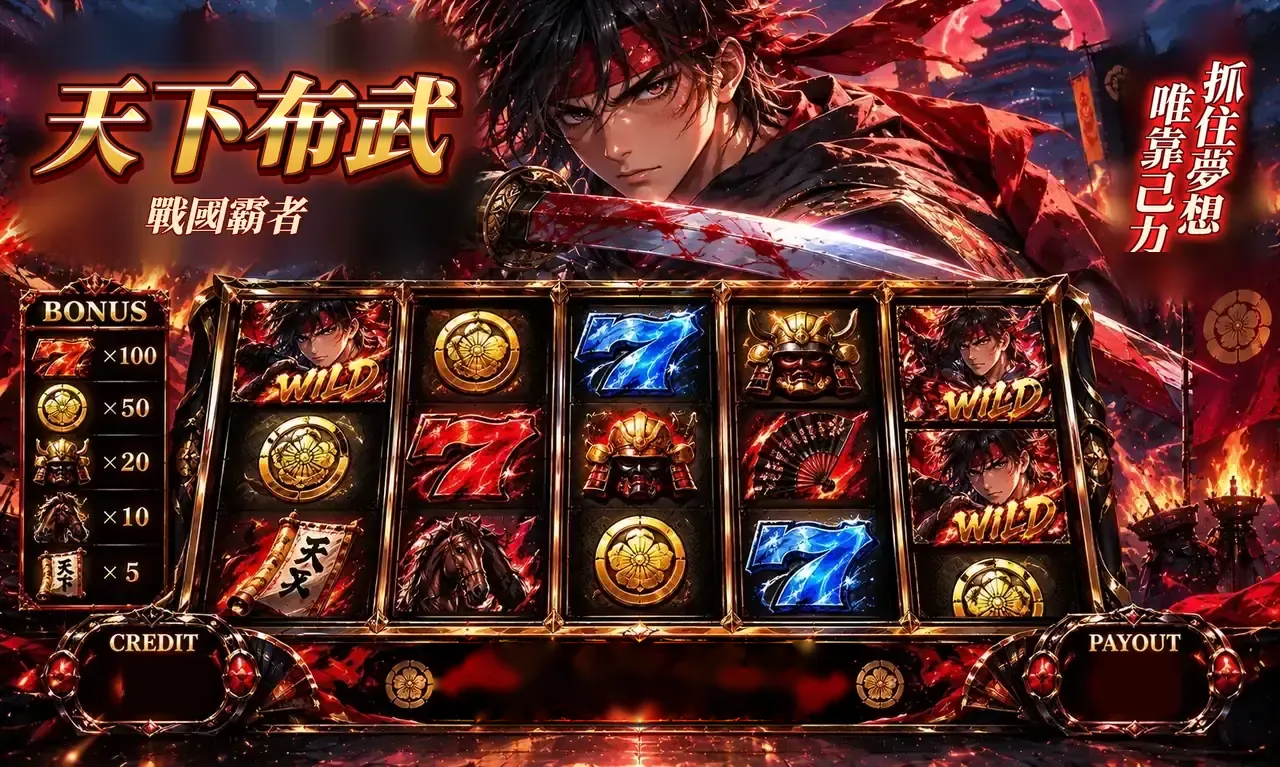
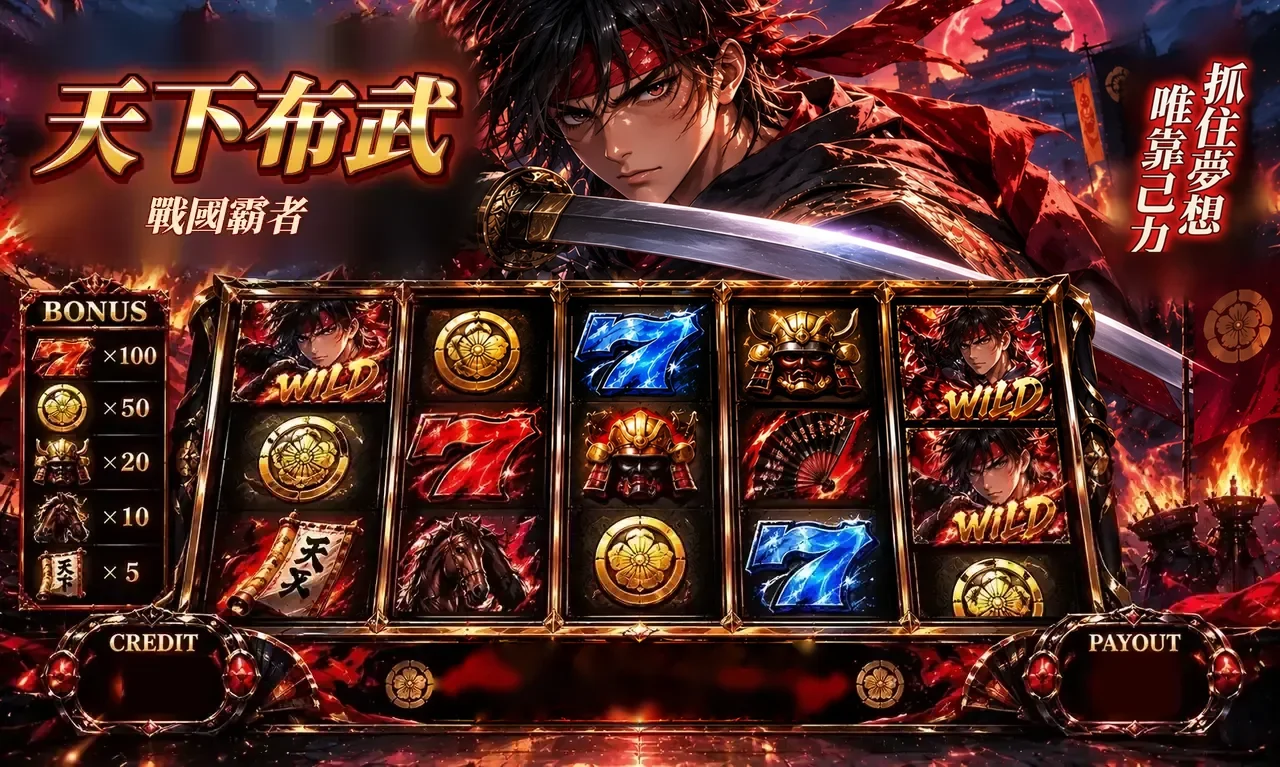
v21.9 mobile: disable double-tap/pinch zoom, clip horizontal overflow; samurai blood removed

Changed region(s): [[0.3438, 0.0, 1.0, 0.6297], [0.9062, 0.3898, 0.9375, 0.4198], [0.8438, 0.3299, 0.875, 0.3598]]

diff --git a/index.html b/index.html
@@ -1,13 +1,13 @@
 <!doctype html><html lang="zh-Hant"><head><meta name="theme-color" content="#1a0618"><meta charset="utf-8">
-<meta name="viewport" content="width=device-width,initial-scale=1,viewport-fit=cover">
+<meta name="viewport" content="width=device-width,initial-scale=1,minimum-scale=1,maximum-scale=1,user-scalable=no,viewport-fit=cover">
 <title>龍運金殿 DRAGON FORTUNE PALACE｜僅供娛樂</title>
 <meta property="og:title" content="龍運金殿｜僅供娛樂・虛擬籌碼"><meta property="og:description" content="龍運金殿：虛擬籌碼娛樂城。僅供娛樂・虛擬籌碼・無真實金錢。"><meta property="og:image" content="assets/logo21.webp"><meta name="application-name" content="龍運金殿"><meta name="description" content="虛擬籌碼的日系柏青嫂風格娛樂城。僅供娛樂・虛擬籌碼・無真實金錢。">
-<link rel="preload" href="assets/lobby/bg.webp?v=218" as="image">
+<link rel="preload" href="assets/lobby/bg.webp?v=219" as="image">
 <style>
-@font-face{font-family:"KleeSub";src:url(assets/fonts/klee-sub.woff2?v=218) format("woff2");font-weight:600;font-display:swap}
+@font-face{font-family:"KleeSub";src:url(assets/fonts/klee-sub.woff2?v=219) format("woff2");font-weight:600;font-display:swap}
 *{box-sizing:border-box}html,body{margin:0;height:100%}
 body{background:#07020a;color:#fbe9f3;font-family:"Noto Sans TC","Noto Sans CJK TC",sans-serif;overflow-x:hidden;-webkit-tap-highlight-color:transparent}
-body::before{content:"";position:fixed;inset:0;z-index:-2;background:url(assets/lobby/bg.webp?v=218) center 30%/cover no-repeat}
+body::before{content:"";position:fixed;inset:0;z-index:-2;background:url(assets/lobby/bg.webp?v=219) center 30%/cover no-repeat}
 body::after{content:"";position:fixed;inset:0;z-index:-1;background:linear-gradient(180deg,rgba(7,2,10,.55),rgba(7,2,10,.25) 30%,rgba(7,2,10,.7) 70%,rgba(7,2,10,.95))}
 @media (min-width:800px){body::before{background-size:auto 140%;background-position:center 30%;box-shadow:inset 0 0 0 100vmax rgba(0,0,0,0)}body{background:radial-gradient(ellipse at 50% 20%,#2a0a26,#07020a 70%)}}
 button{font:inherit;color:inherit;cursor:pointer;touch-action:manipulation}
@@ -105,11 +105,11 @@ html,body{background-color:#1a0618}
 @keyframes mq2{from{transform:translateX(0)}to{transform:translateX(-50%)}}
 @media (max-width:440px){.top{gap:4px}.pill{height:34px;padding:0 9px}.bal b{font-size:16px}.coin{width:17px;height:17px}.ib{width:31px!important;height:31px!important;font-size:14px!important;flex:none}.top .sp{flex:1 1 0;min-width:0}}
 @media (max-width:370px){.ib{width:29px!important;height:29px!important;font-size:13px!important}.lv{max-width:30vw;padding:0 8px}.top{gap:3px}}
-</style><link rel="stylesheet" href="gallery.css?v=218"><style id="tcd184">@font-face{font-family:"TCDisp";src:url(assets/fonts/tcdisp.woff2?v=218) format("woff2");font-weight:900;font-display:swap}
+</style><link rel="stylesheet" href="gallery.css?v=219"><style id="tcd184">@font-face{font-family:"TCDisp";src:url(assets/fonts/tcdisp.woff2?v=219) format("woff2");font-weight:900;font-display:swap}
 .neon2{font-family:"TCDisp","Noto Serif TC",serif!important;font-weight:900!important;font-style:italic!important;letter-spacing:.12em!important}
 .card .t b{font:900 italic 19px/1.2 "TCDisp","Noto Serif TC",serif!important;letter-spacing:.02em;background:linear-gradient(#fff8d8,#ffd56a 55%,#d08a1a);-webkit-background-clip:text;background-clip:text;color:transparent;filter:drop-shadow(1px 2px 0 #3a0418)}
 </style></head><body>
-<div id="load"><img class="l21logo" src="assets/logo21.webp?v=218" alt="龍運金殿" width="900" height="420"><div class="lb"><i id="lbi"></i></div><button id="enter">點擊進入 ♡ 點擊開始</button><small>僅供娛樂・虛擬籌碼・無真實金錢</small></div>
+<div id="load"><img class="l21logo" src="assets/logo21.webp?v=219" alt="龍運金殿" width="900" height="420"><div class="lb"><i id="lbi"></i></div><button id="enter">點擊進入 ♡ 點擊開始</button><small>僅供娛樂・虛擬籌碼・無真實金錢</small></div>
 <div class="wrap">
 <div class="top">
 <div class="pill bal" aria-label="虛擬籌碼餘額"><span class="coin"></span><b id="bal">0</b></div>
@@ -121,7 +121,7 @@ html,body{background-color:#1a0618}
 <button class="ib" id="bLb" aria-label="排行榜">🏆</button>
 <button class="ib" id="bBgm" aria-label="背景音樂" aria-pressed="true">🎵</button>
 </div>
-<header class="sign"><img class="l21logo l21logoT" src="assets/logo21.webp?v=218" alt="龍運金殿" width="900" height="420"></header>
+<header class="sign"><img class="l21logo l21logoT" src="assets/logo21.webp?v=219" alt="龍運金殿" width="900" height="420"></header>
 <div class="mq" aria-hidden="true"><div id="mq"></div></div><div class="czno">僅供娛樂・虛擬籌碼・無真實金錢</div>
 <section class="jp" aria-label="彩金池">
 <div class="jpc g"><small>GRAND JACKPOT</small><b id="jp2">0</b></div>
@@ -137,14 +137,14 @@ html,body{background-color:#1a0618}
 <dialog id="dFree"><h3>免費籌碼</h3><div class="row"><div class="x"><b id="fAmt">每 3 小時可領一次</b><small id="fTxt"></small></div><button class="btn hot" id="fClaim">領取</button></div><p class="note">VIP 等級越高，每次可領越多・虛擬籌碼</p><button class="btn close" data-close>關閉</button></dialog>
 <dialog id="dMiss"><h3>今日任務</h3><div id="miss"></div><h3 style="margin-top:14px">成就</h3><div id="ach"></div><button class="btn close" data-close>關閉</button></dialog>
 <dialog id="dLb"><h3>排行榜</h3><span class="warn">⚠ 示範資料：除「你」以外皆為虛構玩家，非真實排名</span><table class="lbt" id="lbt"></table><p class="note">依累積贏得虛擬籌碼排序・僅供娛樂</p><button class="btn close" data-close>關閉</button></dialog>
-<script src="casino.js?v=218"></script>
+<script src="casino.js?v=219"></script>
 <script>
 (()=>{const $=id=>document.getElementById(id),LS=localStorage,fmt=n=>Math.floor(n).toLocaleString('en-US');
 const GAMES=[
-{id:'matsuri',href:'matsuri.html',name:'夏祭花火',img:'assets/matsuri/card.webp?v=218',tags:['RTP 94.0%','低波動','免費遊戲 ×2倍'],rib:'和風祭典'},
-{id:'samurai',href:'samurai.html',name:'天下布武',img:'assets/samurai/card.webp?v=218',tags:['RTP 93.9%','高波動','免費遊戲 ×3倍'],rib:'NEW'},
-{id:'neko',href:'neko.html',name:'招財大作戰',img:'assets/neko/card.webp?v=218',tags:['RTP 94.0%','低波動','免費遊戲 ×2倍'],rib:'NEW'},
-{id:'sakura',href:'sakura.html',name:'櫻花斬',img:'assets/sakura/card.webp?v=218',tags:['RTP 94.1%','中波動','免費遊戲 ×3倍'],rib:'NEW'}];
+{id:'matsuri',href:'matsuri.html',name:'夏祭花火',img:'assets/matsuri/card.webp?v=219',tags:['RTP 94.0%','低波動','免費遊戲 ×2倍'],rib:'和風祭典'},
+{id:'samurai',href:'samurai.html',name:'天下布武',img:'assets/samurai/card.webp?v=219',tags:['RTP 93.9%','高波動','免費遊戲 ×3倍'],rib:'NEW'},
+{id:'neko',href:'neko.html',name:'招財大作戰',img:'assets/neko/card.webp?v=219',tags:['RTP 94.0%','低波動','免費遊戲 ×2倍'],rib:'NEW'},
+{id:'sakura',href:'sakura.html',name:'櫻花斬',img:'assets/sakura/card.webp?v=219',tags:['RTP 94.1%','中波動','免費遊戲 ×3倍'],rib:'NEW'}];
 $('wall').innerHTML=GAMES.map(g=>`<a class="card" href="${g.href}" data-id="${g.id}"><span class="rib">${g.rib}</span><img src="${g.img}" alt="${g.name}" loading="lazy" decoding="async" width="720" height="405"><div class="meta"><div class="t"><b>${g.name}</b><small>${g.tags.map(t=>`<span class="tag">${t}</span>`).join('')}</small></div><span class="play">PLAY</span></div></a>`).join('')+
 `<div class="card lock" aria-hidden="true"><div class="ph">COMING SOON</div><div class="meta"><div class="t"><b>新機台 準備中</b><small><span class="tag">敬請期待</span></small></div></div></div>`;
 // ---- UI refresh ----
@@ -194,12 +194,12 @@ function note(f,t,d,type,g,dest){const o=ac.createOscillator(),e=ac.createGain()
 const CH=[[57,60,64,67],[53,57,60,64],[55,59,62,65],[52,55,59,62]],mf=m=>440*Math.pow(2,(m-69)/12);let bar=0,nextT=0;
 function sched(){if(!ac||!bgmOn)return;while(nextT<ac.currentTime+1.2){const c=CH[bar%4],t=nextT;c.forEach(m=>note(mf(m),t,3.6,'sine',.035));note(mf(c[0]-12),t,3.4,'triangle',.06);
 [0,.5,1,1.5,2,2.5,3,3.5].forEach((k,i)=>{if(i%2||Math.random()<.5)note(mf(c[(i+bar)%4]+12),t+k,.45,'triangle',.022)});nextT+=4;bar++}}
-let lbB=null,lbS=null,lbL=0;function lbLoad(){if(lbL||!ac)return;lbL=1;fetch('assets/audio/bgm_lobby.mp3?v=218').then(r=>r.arrayBuffer()).then(a=>new Promise((o,n)=>{const p=ac.decodeAudioData(a,o,n);p&&p.then&&p.then(o,n)})).then(b=>{lbB=b;if(bgmOn)bgmStart()}).catch(()=>{})}
+let lbB=null,lbS=null,lbL=0;function lbLoad(){if(lbL||!ac)return;lbL=1;fetch('assets/audio/bgm_lobby.mp3?v=219').then(r=>r.arrayBuffer()).then(a=>new Promise((o,n)=>{const p=ac.decodeAudioData(a,o,n);p&&p.then&&p.then(o,n)})).then(b=>{lbB=b;if(bgmOn)bgmStart()}).catch(()=>{})}
 function bgmStart(){aInit();if(!ac)return;lbLoad();if(lbB){ac.resume&&ac.resume();clearInterval(bgmT);if(bgmOn){if(!lbS){lbS=ac.createBufferSource();lbS.buffer=lbB;lbS.loop=true;lbS.connect(mg);lbS.start()}mg.gain.cancelScheduledValues(ac.currentTime);mg.gain.setValueAtTime(mg.gain.value,ac.currentTime);mg.gain.linearRampToValueAtTime(.55,ac.currentTime+1.5)}return}
 bgmStart0()}
 function bgmStart0(){aInit();if(!ac)return;ac.resume&&ac.resume();if(bgmOn){mg.gain.cancelScheduledValues(ac.currentTime);mg.gain.linearRampToValueAtTime(.9,ac.currentTime+1.5);nextT=Math.max(nextT,ac.currentTime+.05);clearInterval(bgmT);bgmT=setInterval(sched,400);sched()}}
 function bgmFade(){if(ac&&mg)mg.gain.linearRampToValueAtTime(0,ac.currentTime+.25)}
-const LSX={};function lsxL(n){if(LSX[n]!==undefined||!ac)return;LSX[n]=0;fetch('assets/audio/sfx_'+n+'.mp3?v=218').then(r=>r.arrayBuffer()).then(a=>new Promise((o,x)=>{const p=ac.decodeAudioData(a,o,x);p&&p.then&&p.then(o,x)})).then(b=>LSX[n]=b).catch(()=>{})}
+const LSX={};function lsxL(n){if(LSX[n]!==undefined||!ac)return;LSX[n]=0;fetch('assets/audio/sfx_'+n+'.mp3?v=219').then(r=>r.arrayBuffer()).then(a=>new Promise((o,x)=>{const p=ac.decodeAudioData(a,o,x);p&&p.then&&p.then(o,x)})).then(b=>LSX[n]=b).catch(()=>{})}
 function sfx(k){if(!ac)return;['click','chime','coin','enter'].forEach(lsxL);const nm=k===9?'enter':k>=2?'chime':'click';if(LSX[nm]){const s=ac.createBufferSource(),g=ac.createGain();g.gain.value=.8;s.buffer=LSX[nm];s.connect(g).connect(ac.destination);s.start(0,.05);return}const t=ac.currentTime;const g=ac.createGain();g.gain.value=1;g.connect(ac.destination);
 if(k===1)note(1320,t,.08,'square',.03,g);else if(k===2){[0,.07,.14].forEach((d,i)=>note([1047,1319,1568][i],t+d,.25,'triangle',.06,g))}else if(k===3){note(523,t,.15,'triangle',.08,g);note(784,t+.08,.3,'triangle',.08,g)}}
 $('bBgm').onclick=()=>{bgmOn=!bgmOn;LS.setItem('cz_bgm',bgmOn?'1':'0');$('bBgm').setAttribute('aria-pressed',bgmOn);$('bBgm').style.opacity=bgmOn?1:.5;if(bgmOn)bgmStart();else bgmFade()};$('bBgm').style.opacity=bgmOn?1:.5;
@@ -211,4 +211,4 @@ const go=()=>{$('load').classList.add('out');bgmStart();CZ.vib(10);setTimeout(()
 if(sessionStorage.getItem('cz_in')){$('load').remove();addEventListener('pointerdown',bgmStart,{once:true})}else $('enter').addEventListener('click',()=>sessionStorage.setItem('cz_in','1'));
 refresh();
 })();
-</script><script src="gallery.js?v=218"></script><script>document.getElementById("bGal").onclick=()=>CZGAL.open();document.getElementById("galN").textContent=CZGAL.count()+"/"+CZGAL.total</script><link rel="stylesheet" href="life21.css?v=218"><link rel="stylesheet" href="lobby21.css?v=218"><script src="lobby21.js?v=218"></script></body></html>
+</script><script src="gallery.js?v=219"></script><script>document.getElementById("bGal").onclick=()=>CZGAL.open();document.getElementById("galN").textContent=CZGAL.count()+"/"+CZGAL.total</script><link rel="stylesheet" href="life21.css?v=219"><link rel="stylesheet" href="lobby21.css?v=219"><script src="lobby21.js?v=219"></script></body></html>

diff --git a/casino.js b/casino.js
@@ -48,7 +48,7 @@ function waitIdle(f){const k=()=>{if(idle())f();else setTimeout(k,300)};setTimeo
 const SEG=[0,1,0,0,1,0,0,2,0,0,1,0,0,1,0,0,1,0,0,0];// 14 MINI, 5 MAJOR, 1 GRAND (matches 70/25/5)
 function wheelEl(){let w=document.getElementById('czWheel');if(w)return w;w=document.createElement('div');w.id='czWheel';w.setAttribute('role','dialog');w.setAttribute('aria-label','彩金轉盤');
  const cols=['#3a0a2c','#8a1a5c','#d9a441'];const g=SEG.map((s,i)=>`${cols[s]} ${i*18}deg ${(i+1)*18}deg`).join(',');
- w.innerHTML=`<img class="czframe" src="assets/lobby/frame_s.webp?v=218" alt=""><div class="czwbox"><div class="czwt">JACKPOT CHANCE!!</div><div class="czwsub">彩金轉盤</div><div class="czwheel"><div class="czwd" style="background:conic-gradient(${g})">${SEG.map((s,i)=>`<span style="transform:rotate(${i*18+9}deg)"><b class="s${s}">${JP.name[s]}</b></span>`).join('')}</div><div class="czwhub">JP</div><div class="czwptr"></div></div><div class="czwres" aria-live="assertive"></div><button class="czwgo">旋轉轉盤</button></div>`;
+ w.innerHTML=`<img class="czframe" src="assets/lobby/frame_s.webp?v=219" alt=""><div class="czwbox"><div class="czwt">JACKPOT CHANCE!!</div><div class="czwsub">彩金轉盤</div><div class="czwheel"><div class="czwd" style="background:conic-gradient(${g})">${SEG.map((s,i)=>`<span style="transform:rotate(${i*18+9}deg)"><b class="s${s}">${JP.name[s]}</b></span>`).join('')}</div><div class="czwhub">JP</div><div class="czwptr"></div></div><div class="czwres" aria-live="assertive"></div><button class="czwgo">旋轉轉盤</button></div>`;
  document.body.appendChild(w);return w}
 function wheel(total){window.__hold=true;const w=wheelEl(),d=w.querySelector('.czwd'),btn=w.querySelector('.czwgo'),res=w.querySelector('.czwres');
  res.textContent='';d.style.transition='none';d.style.transform='rotate(0deg)';w.classList.add('on');btn.disabled=false;btn.textContent='旋轉轉盤';vib([30,40,30]);
@@ -66,7 +66,7 @@ window.CZ.wheel=wheel;
 function machineUI(){const $=id=>document.getElementById(id),mach=$('machine');
  // 大獎 cutscene (user art) before big wins / bonus / jackpot
  const at=document.createElement('div');at.id='czAtari';at.setAttribute('role','dialog');at.setAttribute('aria-label','大獎');
- at.innerHTML='<div class="ab"></div><div class="ai"></div><div class="asw"></div><div class="apt"></div><img class="afr" src="assets/lobby/frame_s.webp?v=218" alt=""><div class="atx"><b></b><i></i></div><div class="askip">點擊略過</div>';
+ at.innerHTML='<div class="ab"></div><div class="ai"></div><div class="asw"></div><div class="apt"></div><img class="afr" src="assets/lobby/frame_s.webp?v=219" alt=""><div class="atx"><b></b><i></i></div><div class="askip">點擊略過</div>';
  document.body.appendChild(at);const pt=at.querySelector('.apt');for(let i=0;i<16;i++){const e=document.createElement('u');e.style.left=(Math.random()*100)+'%';e.style.animationDelay=(-Math.random()*2.4)+'s';e.style.animationDuration=(2+Math.random()*1.6)+'s';e.style.setProperty('--dx',(Math.random()*120-60)+'px');pt.appendChild(e)}
  function sting(){try{if(typeof ac==='undefined'||!ac)return;const t=ac.currentTime,g=ac.createGain();g.gain.value=.5;g.connect(ac.destination);
   [[523,0],[659,.08],[784,.16],[1047,.24],[1568,.36]].forEach(([f,d])=>{const o=ac.createOscillator(),e=ac.createGain();o.type='triangle';o.frequency.value=f;e.gain.setValueAtTime(0,t+d);e.gain.linearRampToValueAtTime(.18,t+d+.02);e.gain.exponentialRampToValueAtTime(.001,t+d+.9);o.connect(e).connect(g);o.start(t+d);o.stop(t+d+1)});
@@ -77,13 +77,13 @@ function machineUI(){const $=id=>document.getElementById(id),mach=$('machine');
  function atEnd(){if(!at.classList.contains('on'))return;clearTimeout(atT);at.className='';window.__hold=false;const f=atCb;atCb=null;f&&f()}
  at.addEventListener('pointerdown',atEnd);addEventListener('keydown',e=>{if(at.classList.contains('on')&&(e.key===' '||e.key==='Enter'||e.key==='Escape')){e.preventDefault();e.stopPropagation();atEnd()}},true);
  CZ.atari=atari;
- (window.requestIdleCallback||setTimeout)(()=>{const w=innerWidth>900;['assets/lobby/'+(w?'atari':'atari_s')+'.webp?v=218','assets/lobby/atari_bl.webp?v=218','assets/lobby/frame_s.webp?v=218',`assets/${CZM.id}/bigbonus.webp?v=218`,`assets/${CZM.id}/hero.webp?v=218`,`assets/${CZM.id}/cutin.webp?v=218`].forEach(u=>{const i=new Image();i.src=u;i.decode&&i.decode().catch(()=>{})})},{timeout:2500});
+ (window.requestIdleCallback||setTimeout)(()=>{const w=innerWidth>900;['assets/lobby/'+(w?'atari':'atari_s')+'.webp?v=219','assets/lobby/atari_bl.webp?v=219','assets/lobby/frame_s.webp?v=219',`assets/${CZM.id}/bigbonus.webp?v=219`,`assets/${CZM.id}/hero.webp?v=219`,`assets/${CZM.id}/cutin.webp?v=219`].forEach(u=>{const i=new Image();i.src=u;i.decode&&i.decode().catch(()=>{})})},{timeout:2500});
  const _bw=window.bigWin;window.bigWin=function(won,total,o={}){if(o.noStamp)return _bw(won,total,o);const x=won/total;
   atari(x>=50?'傳說大獎':x>=25?'超級大獎':'大獎',x>=50?'龍運降臨!!':x>=25?'金殿狂歡!!':'好運降臨!!',()=>_bw(won,total,o))};
  const _fi=window.fsIntro;window.fsIntro=function(re){if(re)return _fi(re);atari('BONUS!!','免費遊戲 開始',()=>_fi(re))};
  const _wh=CZ.wheel;CZ.wheel=function(t){atari('彩金','大獎機會!!',()=>_wh(t))};
  // gold-sakura frame on win tiers
- const bwEl=$('bw');if(bwEl){const f=document.createElement('img');f.className='czframe';f.src='assets/lobby/frame_s.webp?v=218';f.alt='';bwEl.appendChild(f)}
+ const bwEl=$('bw');if(bwEl){const f=document.createElement('img');f.className='czframe';f.src='assets/lobby/frame_s.webp?v=219';f.alt='';bwEl.appendChild(f)}
  const sp=$('spinBtn');sp.addEventListener('pointerdown',()=>vib(12),{passive:true});
  // control bar: move existing controls into one flex bar
  const bar=document.createElement('div');bar.className='czbar';
@@ -136,7 +136,7 @@ if(IN_M)addEventListener('load',czPreSym);
 function czMenuFix(){const m=document.getElementById('menu16');if(m&&m.parentNode!==document.body)document.body.appendChild(m);const b=document.querySelector('.czbar');const set=()=>b&&document.documentElement.style.setProperty('--czbarH',Math.round(b.getBoundingClientRect().height)+'px');set();addEventListener('resize',set);document.getElementById('menuBtn')?.addEventListener('click',set)}
 if(IN_M)addEventListener('load',czMenuFix);
 function czHero(){const mach=document.getElementById('machine'),inn=mach&&mach.querySelector('.inner');if(!inn||document.getElementById('czHero'))return;
- const id=(location.pathname.split('/').pop()||'').replace('.html','');const V='?v=218';document.documentElement.style.setProperty('--czhero',`url(assets/${id}/hero.webp${V})`);
+ const id=(location.pathname.split('/').pop()||'').replace('.html','');const V='?v=219';document.documentElement.style.setProperty('--czhero',`url(assets/${id}/hero.webp${V})`);
  const h=document.createElement('div');h.id='czHero';h.setAttribute('aria-hidden','true');
  h.innerHTML=`<div class="czhi" style="background-image:url(assets/${id}/hero.webp${V})"></div><div class="czhs"></div><i class="czhp"></i><i class="czhp b"></i><img class="czhl" src="assets/${id}/logo.webp${V}" alt=""><div class="czhf"></div>`;
  mach.insertBefore(h,inn);let F=null;const mq=matchMedia('(max-width:620px) and (orientation:portrait)');

diff --git a/casino.css b/casino.css
@@ -97,10 +97,10 @@ body::before{background:radial-gradient(ellipse at 50% 30%,#2a0a22,#07020a 70%)!
 /* 大当り cutscene */
 #czAtari{position:fixed;inset:0;z-index:90;display:block;visibility:hidden;contain:strict;overflow:hidden;background:#05010a;cursor:pointer}
 #czAtari.on{visibility:visible}#czAtari:not(.on) *{animation:none!important}
-#czAtari .ab{position:absolute;inset:0;background:url(assets/lobby/atari_bl.webp?v=218) center/cover}
-#czAtari .ai{position:absolute;inset:0;background:url(assets/lobby/atari.webp?v=218) 55% 40%/cover no-repeat;will-change:transform}
+#czAtari .ab{position:absolute;inset:0;background:url(assets/lobby/atari_bl.webp?v=219) center/cover}
+#czAtari .ai{position:absolute;inset:0;background:url(assets/lobby/atari.webp?v=219) 55% 40%/cover no-repeat;will-change:transform}
 @media (max-aspect-ratio:1/1){#czAtari .ai{background-size:185% auto;background-position:60% 46%;-webkit-mask:linear-gradient(transparent 22%,#000 32%,#000 68%,transparent 78%);mask:linear-gradient(transparent 22%,#000 32%,#000 68%,transparent 78%)}}
-@media (max-width:900px){#czAtari .ai{background-image:url(assets/lobby/atari_s.webp?v=218)}}
+@media (max-width:900px){#czAtari .ai{background-image:url(assets/lobby/atari_s.webp?v=219)}}
 #czAtari.on .ai{animation:atZ 2.3s cubic-bezier(.2,.9,.3,1) both}
 @keyframes atZ{0%{transform:scale(1.35)}100%{transform:scale(1.02)}}
 #czAtari .asw{position:absolute;inset:-20% -60%;background:linear-gradient(105deg,transparent 40%,rgba(255,240,200,.55) 48%,rgba(255,150,210,.35) 52%,transparent 60%);transform:translateX(-60%);will-change:transform}
@@ -259,7 +259,7 @@ dialog,.modal .box,.pop{max-height:calc(100dvh - 16px)!important;overflow:auto!i
 #czMG .mgok[hidden]{display:none}
 
 @media (max-width:620px) and (orientation:portrait){.bw .art{background:var(--czhero) 50% 8%/cover no-repeat!important;opacity:.85!important}}
-@media (max-width:620px) and (orientation:portrait){#czAtari .ab{background:linear-gradient(rgba(10,2,10,.35),rgba(10,2,10,.55)),var(--czhero,url(assets/lobby/atari_bl.webp?v=218)) 50% 10%/cover no-repeat!important}}
+@media (max-width:620px) and (orientation:portrait){#czAtari .ab{background:linear-gradient(rgba(10,2,10,.35),rgba(10,2,10,.55)),var(--czhero,url(assets/lobby/atari_bl.webp?v=219)) 50% 10%/cover no-repeat!important}}
 /* v18.1 portrait control spacing + menu stacking */
 html{-webkit-text-size-adjust:100%;text-size-adjust:100%}
 @media (max-width:620px) and (orientation:portrait){
@@ -292,14 +292,14 @@ body.czau #czAuStop{display:block;position:fixed;z-index:60;border-radius:50%;cu
 /* v18.3 premium 激 badge on reel-window top edge */
 #czGeki{position:fixed;left:50%;top:0;width:clamp(84px,24vw,150px);aspect-ratio:1;z-index:72;pointer-events:none;transform:translate(-50%,-50%) scale(0);opacity:0}
 #czGeki img{width:100%;height:100%;display:block;filter:drop-shadow(0 6px 10px rgba(0,0,0,.6))}
-#czGeki i{position:absolute;inset:0;-webkit-mask:url(assets/lobby/geki.webp?v=218) center/100% no-repeat;mask:url(assets/lobby/geki.webp?v=218) center/100% no-repeat;background:linear-gradient(115deg,transparent 35%,rgba(255,255,255,.85) 48%,transparent 60%) no-repeat;background-size:250% 100%;background-position:150% 0}
+#czGeki i{position:absolute;inset:0;-webkit-mask:url(assets/lobby/geki.webp?v=219) center/100% no-repeat;mask:url(assets/lobby/geki.webp?v=219) center/100% no-repeat;background:linear-gradient(115deg,transparent 35%,rgba(255,255,255,.85) 48%,transparent 60%) no-repeat;background-size:250% 100%;background-position:150% 0}
 #czGeki.go{animation:czGk 1.45s cubic-bezier(.2,.9,.3,1) both}
 #czGeki.go i{animation:czGkS .6s .32s ease-out both}
 @keyframes czGk{0%{opacity:0;transform:translate(-50%,-140%) scale(1.9) rotate(-8deg)}14%{opacity:1;transform:translate(-50%,-50%) scale(.92) rotate(0)}20%{transform:translate(-50%,-50%) scale(1.06)}26%,80%{opacity:1;transform:translate(-50%,-50%) scale(1)}100%{opacity:0;transform:translate(-50%,-50%) scale(1.25)}}
 @keyframes czGkS{from{background-position:150% 0}to{background-position:-60% 0}}
 @media (prefers-reduced-motion:reduce){#czGeki.go{animation:czGkR 1.4s both}#czGeki.go i{animation:none}@keyframes czGkR{0%,90%{opacity:1;transform:translate(-50%,-50%) scale(1)}100%{opacity:0;transform:translate(-50%,-50%) scale(1)}}}
 /* v18.4 pachinko display typography: Noto Serif TC Black, forward slant, metallic fill, extrude */
-@font-face{font-family:"TCDisp";src:url(assets/fonts/tcdisp.woff2?v=218) format("woff2");font-weight:900;font-style:normal;font-display:swap}
+@font-face{font-family:"TCDisp";src:url(assets/fonts/tcdisp.woff2?v=219) format("woff2");font-weight:900;font-style:normal;font-display:swap}
 #czEn .czban,.slam,.bw .tier,#bwJp,#czAtari .atx,#czAtari .atx *,#czMG h2,#czMG h3,#czMG .mgt,.czdisp,#czWheel .czwt,.fsBanner,#fsBanner,.fsb{font-family:"TCDisp","Noto Serif TC","Noto Sans TC",serif!important;font-weight:900!important;font-style:italic!important;font-synthesis:style;letter-spacing:.02em}
 #czEn .czban{color:#ffe680!important;-webkit-text-fill-color:#ffe680;-webkit-text-stroke:2px #3a0800;paint-order:stroke fill;text-shadow:0 -1px 0 #fffbe6,2px 3px 0 #c23a00,4px 6px 0 #5a0c00,6px 9px 0 #200300,0 0 18px rgba(255,140,30,.9)!important;padding:0 .2em;font-size:clamp(34px,11vw,64px)!important}
 #czEn .czban::before{content:"";position:absolute;left:-10%;right:-10%;top:50%;height:120%;transform:translateY(-50%) skewX(-18deg);z-index:-1;background:repeating-linear-gradient(100deg,transparent 0 14px,rgba(255,235,170,.35) 14px 16px,transparent 16px 34px),linear-gradient(90deg,transparent,rgba(160,0,20,.85) 18%,rgba(220,20,40,.9) 50%,rgba(160,0,20,.85) 82%,transparent);border-top:2px solid #ffd36a;border-bottom:2px solid #ffd36a;-webkit-text-fill-color:initial}

diff --git a/enshutsu.js b/enshutsu.js
@@ -21,8 +21,8 @@ function say(txt,ci,ms=2200){if(!ensure())return;bub.querySelector('b').textCont
  bub.dataset.c=ci>=0?COL[ci][0]:'';bub.classList.remove('on');void bub.offsetWidth;bub.classList.add('on');clearTimeout(bub._t);bub._t=setTimeout(()=>bub.classList.remove('on'),ms)}
 function showGem(i){if(!ensure())return;lvl=i;gem.dataset.c=COL[i][0];gem.querySelector('small').textContent=COL[i][2];gem.classList.remove('on');void gem.offsetWidth;gem.classList.add('on')}
 function ban(txt,cls,ms=1400){if(!ensure())return;banner.className='czban '+cls;banner.textContent=txt;void banner.offsetWidth;banner.classList.add('on');clearTimeout(banner._t);banner._t=setTimeout(()=>banner.classList.remove('on'),ms)}
-function cutin(){if(!ensure()||RMQ)return;const c=layer.querySelector('.czcut');c.style.backgroundImage=`url(assets/${window.CZM.id}/${window.CZM.cutImg||"hero"}.webp?v=218)`;c.classList.remove('on');void c.offsetWidth;c.classList.add('on');CZ.vib&&CZ.vib([20,40,20])}
-function gimmick(){if(!ensure())return;{const bd=document.getElementById('board')||document.querySelector('.board');if(bd){let g=document.getElementById('czGeki');if(!g){g=document.createElement('div');g.id='czGeki';g.setAttribute('aria-hidden','true');g.innerHTML='<img src="assets/lobby/geki.webp?v=218" alt="" decoding="async"><i></i>';}if(g.parentNode!==document.body)document.body.appendChild(g);{const r=bd.getBoundingClientRect();g.style.top=r.top+'px';g.style.left=(r.left+r.width/2)+'px'}g.classList.remove('go');void g.offsetWidth;g.classList.add('go');clearTimeout(g._t);g._t=setTimeout(()=>g.classList.remove('go'),1500)}}document.getElementById('machine')?.classList.add('czshake');setTimeout(()=>document.getElementById('machine')?.classList.remove('czshake'),500);CZ.vib&&CZ.vib(60)}
+function cutin(){if(!ensure()||RMQ)return;const c=layer.querySelector('.czcut');c.style.backgroundImage=`url(assets/${window.CZM.id}/${window.CZM.cutImg||"hero"}.webp?v=219)`;c.classList.remove('on');void c.offsetWidth;c.classList.add('on');CZ.vib&&CZ.vib([20,40,20])}
+function gimmick(){if(!ensure())return;{const bd=document.getElementById('board')||document.querySelector('.board');if(bd){let g=document.getElementById('czGeki');if(!g){g=document.createElement('div');g.id='czGeki';g.setAttribute('aria-hidden','true');g.innerHTML='<img src="assets/lobby/geki.webp?v=219" alt="" decoding="async"><i></i>';}if(g.parentNode!==document.body)document.body.appendChild(g);{const r=bd.getBoundingClientRect();g.style.top=r.top+'px';g.style.left=(r.left+r.width/2)+'px'}g.classList.remove('go');void g.offsetWidth;g.classList.add('go');clearTimeout(g._t);g._t=setTimeout(()=>g.classList.remove('go'),1500)}}document.getElementById('machine')?.classList.add('czshake');setTimeout(()=>document.getElementById('machine')?.classList.remove('czshake'),500);CZ.vib&&CZ.vib(60)}
 function wpick(w){let r=Math.random()*w.reduce((a,b)=>a+b,0);for(let i=0;i<w.length;i++){if((r-=w[i])<0)return i}return 0}
 let cur=null;
 const _spin=window.lcdSpin,_reach=window.lcdReach,_res=window.lcdResult;

diff --git a/minigame.js b/minigame.js
@@ -11,7 +11,7 @@ window.CZMG={draw(sc){const k=Math.min(sc,5),v=VAL[k].slice();for(let i=v.length
   const sum=v[0]+v[1]+v[2];pend={k,v,sum};return{sum}},
  play(total,cb){const p=pend;pend=null;if(!p){cb();return}
   const RM=matchMedia('(prefers-reduced-motion:reduce)').matches;const o=document.createElement('div');o.id='czMG';
-  o.innerHTML=`<div class="mgbox"><div class="mgt">${t[0]}</div><div class="mgs">${t[1]}</div><div class="mgg">${Array.from({length:9},(_,i)=>`<button class="mgc" data-i="${i}" aria-label="選擇 ${i+1}"><img src="assets/${id}/t_${t[2]}.webp?v=218" alt=""><b></b></button>`).join('')}</div><div class="mgr">已選 <b id="mgN">0</b>/3　合計 <b id="mgS">×0</b></div><button class="mgok" hidden>進入免費旋轉</button><div class="mgn">僅供娛樂・虛擬籌碼</div></div>`;
+  o.innerHTML=`<div class="mgbox"><div class="mgt">${t[0]}</div><div class="mgs">${t[1]}</div><div class="mgg">${Array.from({length:9},(_,i)=>`<button class="mgc" data-i="${i}" aria-label="選擇 ${i+1}"><img src="assets/${id}/t_${t[2]}.webp?v=219" alt=""><b></b></button>`).join('')}</div><div class="mgr">已選 <b id="mgN">0</b>/3　合計 <b id="mgS">×0</b></div><button class="mgok" hidden>進入免費旋轉</button><div class="mgn">僅供娛樂・虛擬籌碼</div></div>`;
   document.body.appendChild(o);let n=0,s=0,done=false;const cards=[...o.querySelectorAll('.mgc')],order=[];
   const fin=()=>{if(done)return;done=true;let r=3;cards.forEach(c=>{if(!c.classList.contains('open')){c.classList.add('open','rest');c.querySelector('b').textContent='×'+p.v[r++]}});
    o.querySelector('.mgr').innerHTML=`獲得 <b>×${p.sum}</b> ＝ <b>${(p.sum*total).toLocaleString()}</b> 虛擬籌碼`;const ok=o.querySelector('.mgok');ok.hidden=false;ok.onclick=close;auto=setTimeout(close,4000)};

diff --git a/gallery.js b/gallery.js
@@ -7,7 +7,7 @@ requestAnimationFrame(()=>{d.classList.add('on');const i=d.querySelector('.gb i'
 (function(){
 const MS=[['matsuri','夏祭花火'],['samurai','天下布武'],['neko','招財大作戰'],['sakura','櫻花斬']];
 const ART=[['card','機台畫',s=>s.spins>=1,'玩 1 次'],['cutin','演出畫面',s=>s.spins>=50,'玩 50 次'],['hero','主視覺',s=>s.spins>=150,'玩 150 次'],['bigbonus','大獎',s=>s.fs>=1,'觸發 1 次 BONUS']];
-const V='?v=218',K='cz_gal';
+const V='?v=219',K='cz_gal';
 const load=()=>{try{return JSON.parse(localStorage.getItem(K)||'{}')}catch(e){return{}}};const save=g=>localStorage.setItem(K,JSON.stringify(g));
 const st=(g,id)=>g[id]||(g[id]={spins:0,fs:0});
 function count(){const g=load();let n=0;MS.forEach(([id])=>ART.forEach(a=>{if(a[2](st(g,id)))n++}));return n}

diff --git a/czaudio.js b/czaudio.js
@@ -1,6 +1,6 @@
 /* v18.3 pre-rendered BGM/SFX (play-money casino). Falls back to synth until buffers decode. */
 (function(){
-const V='?v=218',D='assets/audio/';const B={};let ld=false,src=null,want=false,cur=null;
+const V='?v=219',D='assets/audio/';const B={};let ld=false,src=null,want=false,cur=null;
 const NAMES=['click','blip','spin','stop','tick','reach','coin','win0','win1','win2','win3','win4','bonus','collect','chime','buy','lose'];
 function ctx(){return (typeof aInit==='function'&&aInit())?ac:null}
 function dec(c,buf){return new Promise((ok,no)=>{const p=c.decodeAudioData(buf,ok,no);if(p&&p.then)p.then(ok,no)})}

diff --git a/life21.css b/life21.css
@@ -28,3 +28,7 @@ html.l21enter body{animation:l21Enter .55s cubic-bezier(.2,.8,.2,1) both}
 #czToast,#czGN{animation:w21Toast .5s cubic-bezier(.2,1.4,.4,1)}
 @keyframes w21Toast{0%{opacity:0;translate:0 -14px;scale:.96}100%{opacity:1;translate:0 0;scale:1}}
 button:focus-visible,.card:focus-visible{outline:2px solid #ffd65a;outline-offset:3px}
+/* v21.9: no double-tap / pinch zoom and no sideways panning on phones */
+html,body{touch-action:manipulation;overflow-x:clip;max-width:100%;overscroll-behavior-x:none}
+@supports not (overflow-x:clip){html,body{overflow-x:hidden}}
+#machine,.machine{overflow-x:clip}
